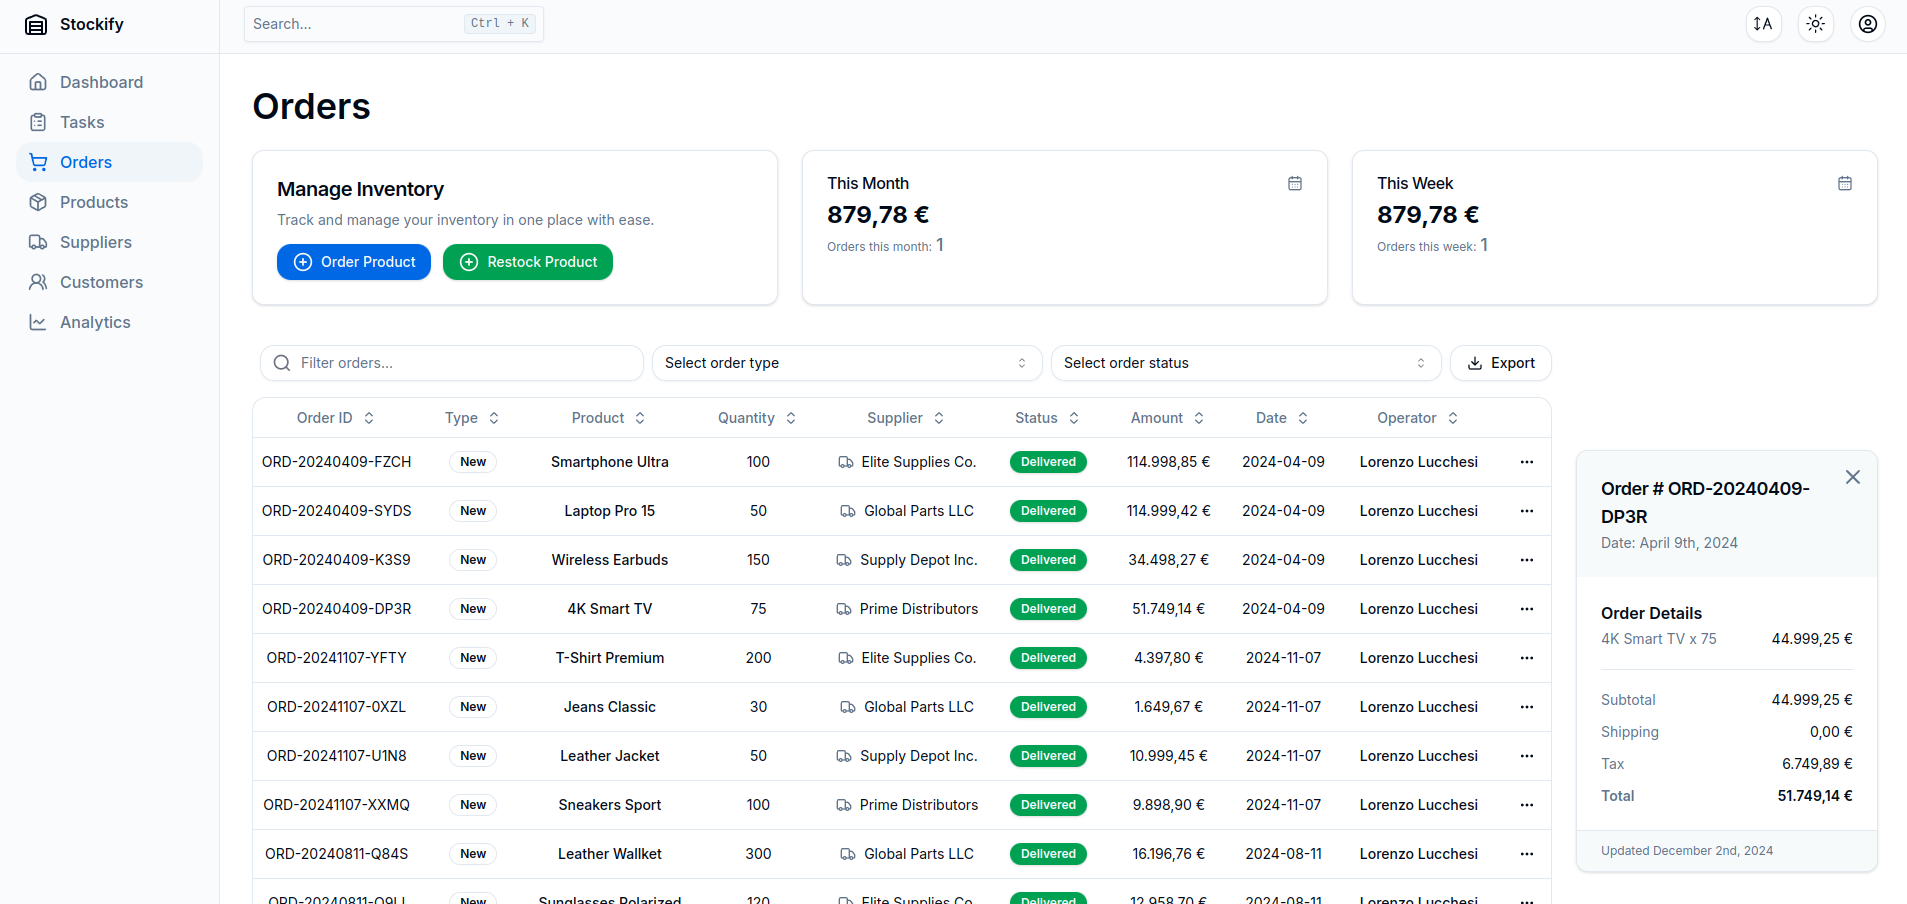
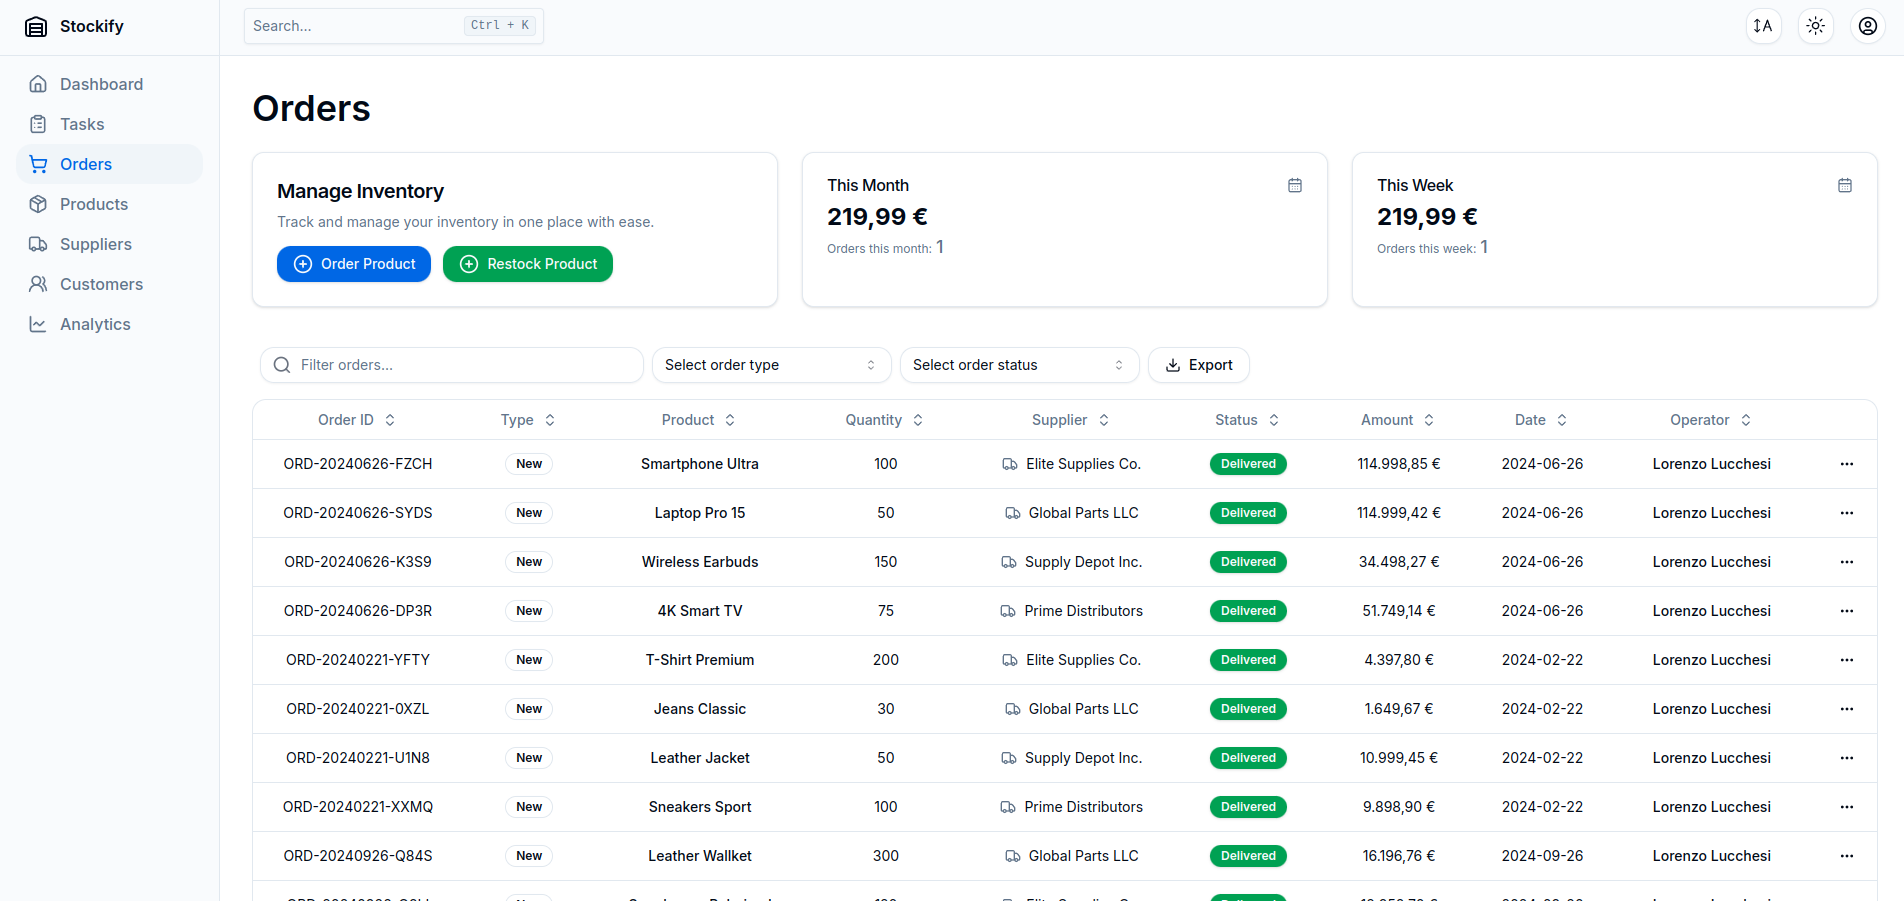
Replace InvoiceProvider with OrderInvoiceDialog component for cleaner state handling and UI control

diff --git a/src/components/orders/order-invoice.tsx b/src/components/orders/order-invoice.tsx
@@ -1,9 +1,7 @@
 "use client";
 
 import { format } from "date-fns";
-import { X } from "lucide-react";
 
-import { Button } from "../ui/button";
 import OrderInvoiceItem from "./order-invoice-item";
 
 import {
@@ -14,13 +12,15 @@ import {
   CardHeader,
   CardTitle,
 } from "@/components/ui/card";
-import { useInvoice } from "@/hooks/use-invoice";
+import { DetailedOrder } from "@/lib/types";
 import { formatOrderId } from "@/lib/utils";
 
-export default function OrderInvoice() {
-  const { isInvoiceOpen, order, handleCloseInvoice } = useInvoice();
+type OrderInvoiceProps = {
+  order: DetailedOrder;
+};
 
-  if (!isInvoiceOpen || !order) return null;
+export default function OrderInvoice({ order }: OrderInvoiceProps) {
+  if (!order) return null;
 
   const orderInvoiceData = [
     {
@@ -28,25 +28,33 @@ export default function OrderInvoice() {
       label: `${order.product.name} x ${order.quantity}`,
       amount: order.subtotal,
     },
-    { id: 2, label: "Subtotal", amount: order.subtotal },
-    { id: 3, label: "Shipping", amount: order.shipping },
-    { id: 4, label: "Tax", amount: order.tax },
-    { id: 5, label: "Total", amount: order.totalPrice },
+    {
+      id: 2,
+      label: "Subtotal",
+      amount: order.subtotal,
+    },
+    {
+      id: 3,
+      label: "Shipping",
+      amount: order.shipping,
+    },
+    {
+      id: 4,
+      label: "Tax",
+      amount: order.tax,
+    },
+    {
+      id: 5,
+      label: "Total",
+      amount: order.totalPrice,
+    },
   ];
 
   return (
-    <Card className="relative overflow-hidden">
-      <Button
-        className="absolute right-2 top-2 border-none bg-transparent p-1"
-        onClick={handleCloseInvoice}
-        aria-label="Close invoice"
-        variant="link"
-      >
-        <X className="h-6 w-6 text-muted-foreground transition hover:text-foreground" />
-      </Button>
-      <CardHeader className="flex flex-row items-start bg-muted/50">
+    <Card className="overflow-hidden">
+      <CardHeader className="bg-muted">
         <div className="grid gap-0.5">
-          <CardTitle className="group flex items-center gap-2 text-lg">
+          <CardTitle className="flex items-center gap-2 text-lg">
             Order # {formatOrderId(order)}
           </CardTitle>
           <CardDescription>
@@ -62,7 +70,7 @@ export default function OrderInvoice() {
           ))}
         </ul>
       </CardContent>
-      <CardFooter className="flex flex-row items-center border-t bg-muted/50 px-6 py-3">
+      <CardFooter className="flex items-center border-t bg-muted px-6 py-3">
         <div className="text-xs text-muted-foreground">
           Updated{" "}
           <time dateTime={order.updatedAt.toISOString()}>

diff --git a/src/components/tables/orders/orders-table.tsx b/src/components/tables/orders/orders-table.tsx
@@ -61,42 +61,43 @@ export default function OrdersTable<TData, TValue>({
   return (
     <>
       {/* Filters and actions */}
-      <div className="my-4">
-        <div className="relative flex items-center space-x-2">
-          <TableSearchInput
-            table={table}
-            column="product.name"
-            id="order-search"
-            placeholder="Filter orders..."
-            className="w-[180px] pl-10 sm:w-full"
-          />
+      <div>
+        <div className="flex items-center justify-between gap-x-4 py-4">
+          <div className="relative flex items-center space-x-2">
+            <TableSearchInput
+              table={table}
+              column="product.name"
+              id="order-search"
+              placeholder="Filter orders..."
+            />
 
-          <TableSelect
-            table={table}
-            column="type"
-            id="order-select"
-            placeholder="Select order type"
-            defaultOptionLabel="All Types"
-            orderItems={orderTypes}
-            className="w-[100px] sm:w-full"
-            type="order"
-          />
+            <TableSelect
+              table={table}
+              column="type"
+              id="order-select"
+              placeholder="Select order type"
+              defaultOptionLabel="All Types"
+              orderItems={orderTypes}
+              type="order"
+              className="w-[100px] md:w-[300px]"
+            />
 
-          <TableSelect
-            table={table}
-            column="status"
-            id="status-order-select"
-            placeholder="Select order status"
-            defaultOptionLabel="All Statuses"
-            orderItems={orderStatuses}
-            className="w-[100px] sm:w-full"
-            type="order"
-          />
+            <TableSelect
+              table={table}
+              column="status"
+              id="status-order-select"
+              placeholder="Select order status"
+              defaultOptionLabel="All Statuses"
+              orderItems={orderStatuses}
+              type="order"
+              className="w-[100px] md:w-[300px]"
+            />
 
-          <CSVExport data={csvData} filename="orders.csv">
-            <Download className="h-4 w-4 sm:mr-2" />
-            <span className="hidden sm:block">Export</span>
-          </CSVExport>
+            <CSVExport data={csvData} fileName="orders.csv">
+              <Download className="h-4 w-4 sm:mr-2" />
+              <span className="hidden sm:block">Export</span>
+            </CSVExport>
+          </div>
         </div>
       </div>
 

diff --git a/src/app/(app)/app/orders/page.tsx b/src/app/(app)/app/orders/page.tsx
@@ -2,12 +2,10 @@ import { format } from "date-fns";
 import { Metadata } from "next";
 
 import H1 from "@/components/common/h1";
-import OrderInvoice from "@/components/orders/order-invoice";
 import OrderSummaryCard from "@/components/orders/order-summary-card";
 import OrdersActionCard from "@/components/orders/orders-action-card";
 import { columns } from "@/components/tables/orders/columns";
 import OrdersTable from "@/components/tables/orders/orders-table";
-import InvoiceProvider from "@/contexts/invoice-provider";
 import { orderStatuses } from "@/lib/data";
 import {
   getMonthlyOrders,
@@ -42,31 +40,25 @@ export default async function OrdersPage() {
   }));
 
   return (
-    <InvoiceProvider>
-      <main>
-        <H1>Orders</H1>
+    <main>
+      <H1>Orders</H1>
 
-        <div className="my-6 w-full lg:hidden">
+      <div className="my-6 w-full lg:hidden">
+        <OrdersActionCard />
+      </div>
+
+      <div className="my-6 grid gap-6 sm:grid-cols-1 lg:grid-cols-2 xl:grid-cols-3">
+        <div className="hidden lg:block">
           <OrdersActionCard />
         </div>
 
-        <div className="my-6 grid gap-6 sm:grid-cols-1 lg:grid-cols-2 xl:grid-cols-3">
-          <div className="hidden lg:block">
-            <OrdersActionCard />
-          </div>
-          <OrderSummaryCard type="month" orders={monthlyOrders} />
-          <OrderSummaryCard type="week" orders={weeklyOrders} />
-        </div>
+        <OrderSummaryCard type="month" orders={monthlyOrders} />
+        <OrderSummaryCard type="week" orders={weeklyOrders} />
+      </div>
 
-        <section className="relative grid grid-cols-1 gap-6 xl:grid-cols-[1300px_1fr]">
-          <div>
-            <OrdersTable columns={columns} data={orders} csvData={csvData} />
-          </div>
-          <div className="my-auto">
-            <OrderInvoice />
-          </div>
-        </section>
-      </main>
-    </InvoiceProvider>
+      <div className="my-6 grid grid-cols-1">
+        <OrdersTable columns={columns} data={orders} csvData={csvData} />
+      </div>
+    </main>
   );
 }

diff --git a/src/components/orders/order-actions.tsx b/src/components/orders/order-actions.tsx
@@ -14,9 +14,9 @@ import {
   DropdownMenuSeparator,
   DropdownMenuTrigger,
 } from "../ui/dropdown-menu";
+import OrderInvoiceDialog from "./order-invoice-dialog";
 
 import { updateOrderStatusAction } from "@/app/actions/order-actions";
-import { useInvoice } from "@/hooks/use-invoice";
 import { DetailedOrder } from "@/lib/types";
 
 type OrderActionsProps = {
@@ -24,8 +24,8 @@ type OrderActionsProps = {
 };
 
 export default function OrderActions({ order }: OrderActionsProps) {
-  const { handleIsInvoiceOpenAndSetOrder } = useInvoice();
   const [isAlertOpen, setIsAlertOpen] = useState(false);
+  const [isInvoiceOpen, setIsInvoiceOpen] = useState(false);
 
   async function onUpdateOrderStatus() {
     await updateOrderStatusAction(order.id);
@@ -44,9 +44,7 @@ export default function OrderActions({ order }: OrderActionsProps) {
         <DropdownMenuContent align="end">
           <DropdownMenuLabel>Actions</DropdownMenuLabel>
           <DropdownMenuSeparator />
-          <DropdownMenuItem
-            onSelect={() => handleIsInvoiceOpenAndSetOrder(order)}
-          >
+          <DropdownMenuItem onSelect={() => setIsInvoiceOpen(true)}>
             View details
           </DropdownMenuItem>
           {order.status === "SHIPPED" && (
@@ -56,6 +54,12 @@ export default function OrderActions({ order }: OrderActionsProps) {
           )}
         </DropdownMenuContent>
       </DropdownMenu>
+
+      <OrderInvoiceDialog
+        open={isInvoiceOpen}
+        setOpen={setIsInvoiceOpen}
+        order={order}
+      />
 
       <MainAlertDialog
         open={isAlertOpen}

diff --git a/src/components/orders/order-invoice-dialog.tsx b/src/components/orders/order-invoice-dialog.tsx
@@ -1,0 +1,34 @@
+import OrderInvoice from "./order-invoice";
+
+import {
+  Dialog,
+  DialogContent,
+  DialogDescription,
+  DialogHeader,
+  DialogTitle,
+} from "@/components/ui/dialog";
+import { DetailedOrder } from "@/lib/types";
+
+type OrderInvoiceDialogProps = {
+  open: boolean;
+  setOpen: (open: boolean) => void;
+  order: DetailedOrder;
+};
+
+export default function OrderInvoiceDialog({
+  open,
+  setOpen,
+  order,
+}: OrderInvoiceDialogProps) {
+  return (
+    <Dialog open={open} onOpenChange={setOpen}>
+      <DialogContent>
+        <DialogHeader>
+          <DialogTitle>Order Invoice Details</DialogTitle>
+          <DialogDescription>View order invoice details.</DialogDescription>
+        </DialogHeader>
+        <OrderInvoice order={order} />
+      </DialogContent>
+    </Dialog>
+  );
+}

diff --git a/src/components/tables/products/products-table.tsx b/src/components/tables/products/products-table.tsx
@@ -80,10 +80,12 @@ export default function ProductsTable<TData, TValue>({
               placeholder="Select categories"
               defaultOptionLabel="All Categories"
               categoryItems={categories}
+              className="w-[100px] md:w-[300px]"
             />
 
             <ProductTablePopover table={table} />
-            <CSVExport data={csvData} filename="products.csv">
+
+            <CSVExport data={csvData} fileName="products.csv">
               <Download className="h-4 w-4 sm:mr-2" />
               <span className="hidden sm:block">Export</span>
             </CSVExport>

diff --git a/src/components/common/csv-export.tsx b/src/components/common/csv-export.tsx
@@ -21,17 +21,17 @@ const CSVLink = dynamic(() => import("react-csv").then((mod) => mod.CSVLink), {
 type CSVExportProps = {
   children: React.ReactNode;
   data: Record<string, string | number>[];
-  filename: string;
+  fileName: string;
 };
 
 export default function CSVExport({
   children,
   data,
-  filename,
+  fileName,
 }: CSVExportProps) {
   return (
     <Button variant="outline" asChild>
-      <CSVLink data={data} filename={filename}>
+      <CSVLink data={data} filename={fileName}>
         {children}
       </CSVLink>
     </Button>
